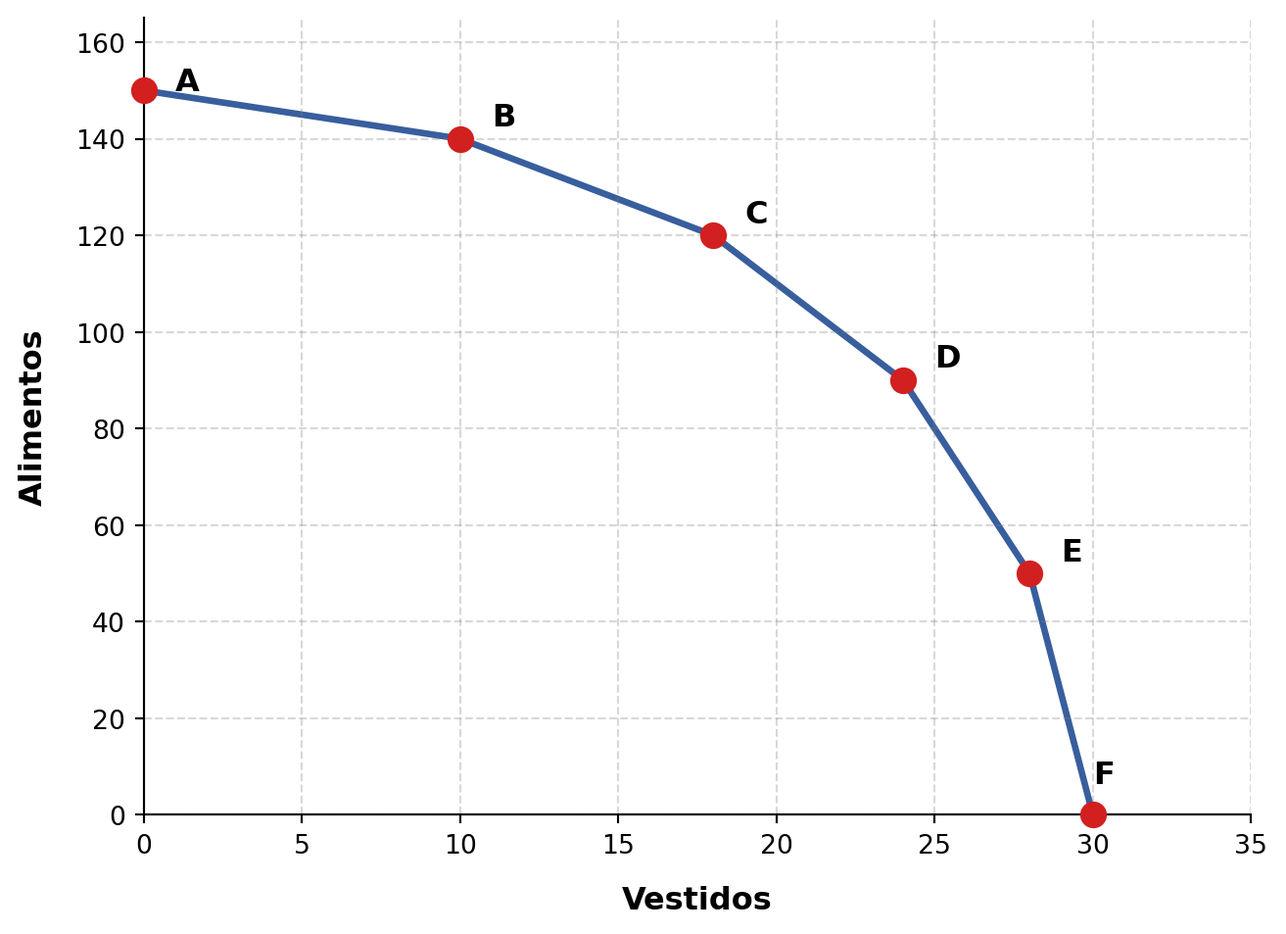
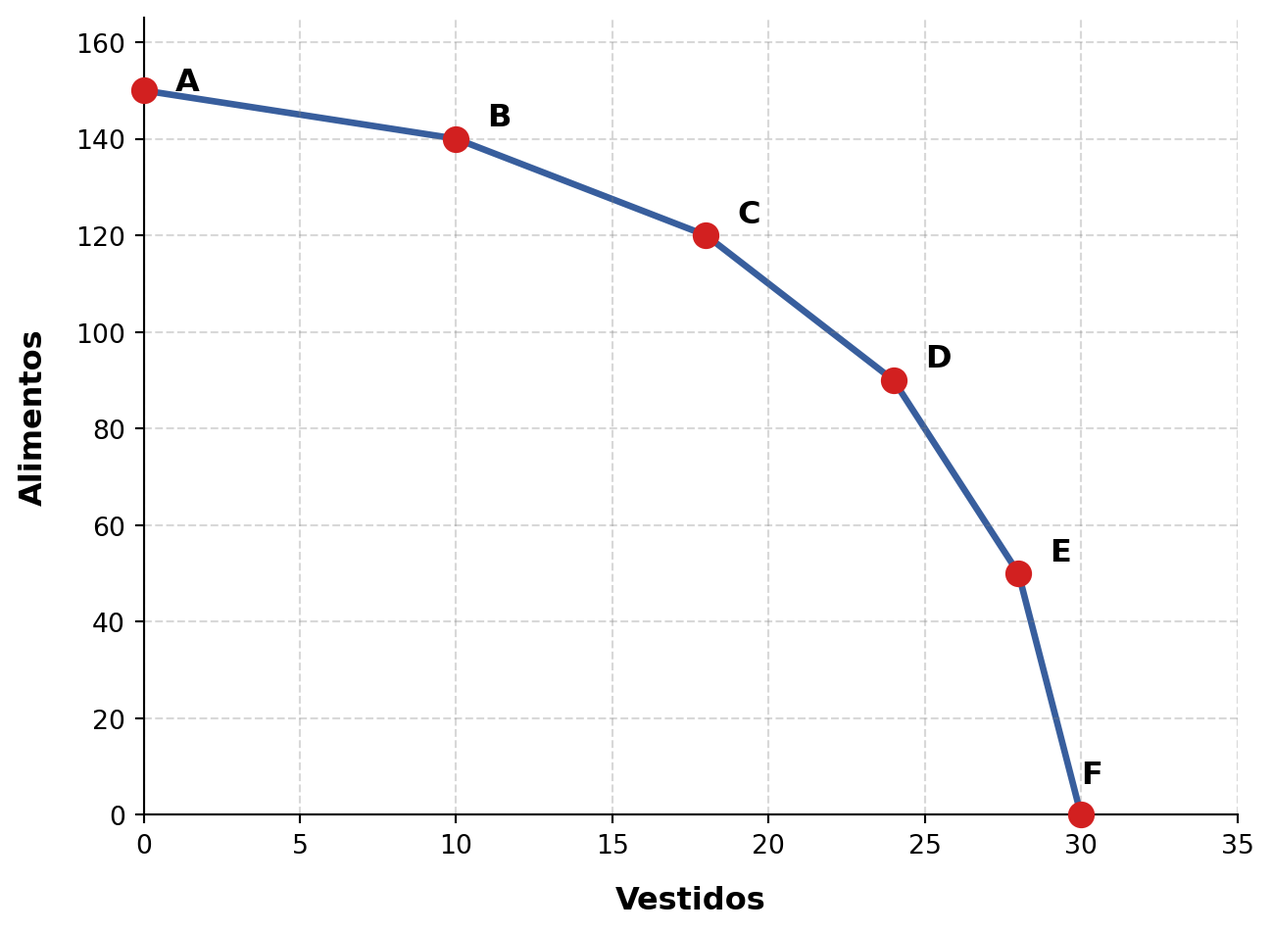
Built site for gh-pages

diff --git a/intro.html b/intro.html
@@ -567,7 +567,7 @@ Tabla&nbsp;1.3: Posibilidades de producción de alimentos y vestidos
 <div id="fig-fpp-grafico" class="quarto-float quarto-figure quarto-figure-center anchored">
 <figure class="quarto-float quarto-float-fig figure">
 <div aria-describedby="fig-fpp-grafico-caption-0ceaefa1-69ba-4598-a22c-09a6ac19f8ca">
-<img src="intro_files/figure-html/fig-fpp-grafico-output-1.png" width="657" height="477" class="figure-img">
+<img src="intro_files/figure-html/fig-fpp-grafico-output-1.png" width="649" height="477" class="figure-img">
 </div>
 <figcaption class="quarto-float-caption-bottom quarto-float-caption quarto-float-fig" id="fig-fpp-grafico-caption-0ceaefa1-69ba-4598-a22c-09a6ac19f8ca">
 Figura&nbsp;1.1: Representación gráfica de la Frontera de Posibilidades de Producción (FPP)
@@ -651,9 +651,9 @@ Figura&nbsp;1.1: Representación gráfica de la Frontera de Posibilidades de Pro
 <div id="fig-fpp-dinamica" class="cell-output cell-output-display quarto-float quarto-figure quarto-figure-center anchored">
 <figure class="quarto-float quarto-float-fig figure">
 <div aria-describedby="fig-fpp-dinamica-caption-0ceaefa1-69ba-4598-a22c-09a6ac19f8ca">
-<div>                            <div id="cb0a7c3e-56eb-4d82-a3ae-cc48da9b9d39" class="plotly-graph-div" style="height:525px; width:100%;"></div>            <script type="text/javascript">                require(["plotly"], function(Plotly) {                    window.PLOTLYENV=window.PLOTLYENV || {};                                    if (document.getElementById("cb0a7c3e-56eb-4d82-a3ae-cc48da9b9d39")) {                    Plotly.newPlot(                        "cb0a7c3e-56eb-4d82-a3ae-cc48da9b9d39",                        [{"line":{"color":"#385e9d","shape":"spline","width":4},"mode":"lines+markers","name":"FPP Actual","x":[0,10,18,24,28,30],"y":[150,140,120,90,50,0],"type":"scatter"},{"line":{"color":"gray","dash":"dash","shape":"spline","width":2},"mode":"lines","name":"FPP Anterior","visible":false,"x":[0,10,18,24,28,30],"y":[150,140,120,90,50,0],"type":"scatter"},{"line":{"color":"#2ca02c","shape":"spline","width":4},"mode":"lines+markers","name":"Nueva FPP","visible":false,"x":[0.0,12.5,22.5,30.0,35.0,37.5],"y":[187.5,175.0,150.0,112.5,62.5,0.0],"type":"scatter"},{"line":{"color":"#d22020","shape":"spline","width":4},"mode":"lines+markers","name":"Nueva FPP","visible":false,"x":[0.0,7.5,13.5,18.0,21.0,22.5],"y":[112.5,105.0,90.0,67.5,37.5,0.0],"type":"scatter"},{"line":{"color":"#ff7f0e","shape":"spline","width":4},"mode":"lines+markers","name":"Nueva FPP","visible":false,"x":[0,15.0,27.0,36.0,42.0,45.0],"y":[150,140,120,90,50,0],"type":"scatter"},{"line":{"color":"#9467bd","shape":"spline","width":4},"mode":"lines+markers","name":"Nueva FPP","visible":false,"x":[0.0,11.5,20.7,27.599999999999998,32.199999999999996,34.5],"y":[172.5,161.0,138.0,103.49999999999999,57.49999999999999,0.0],"type":"scatter"},{"marker":{"color":"#d22020","size":14},"mode":"markers+text","name":"Ineficiente","text":["Recursos<br>Ociosos"],"textposition":"bottom center","visible":false,"x":[10],"y":[50],"type":"scatter"},{"marker":{"color":"#2ca02c","size":14},"mode":"markers+text","name":"Eficiente","text":["Uso<br>Eficiente"],"textposition":"top right","visible":false,"x":[24],"y":[90],"type":"scatter"}],                        {"template":{"data":{"barpolar":[{"marker":{"line":{"color":"white","width":0.5},"pattern":{"fillmode":"overlay","size":10,"solidity":0.2}},"type":"barpolar"}],"bar":[{"error_x":{"color":"#2a3f5f"},"error_y":{"color":"#2a3f5f"},"marker":{"line":{"color":"white","width":0.5},"pattern":{"fillmode":"overlay","size":10,"solidity":0.2}},"type":"bar"}],"carpet":[{"aaxis":{"endlinecolor":"#2a3f5f","gridcolor":"#C8D4E3","linecolor":"#C8D4E3","minorgridcolor":"#C8D4E3","startlinecolor":"#2a3f5f"},"baxis":{"endlinecolor":"#2a3f5f","gridcolor":"#C8D4E3","linecolor":"#C8D4E3","minorgridcolor":"#C8D4E3","startlinecolor":"#2a3f5f"},"type":"carpet"}],"choropleth":[{"colorbar":{"outlinewidth":0,"ticks":""},"type":"choropleth"}],"contourcarpet":[{"colorbar":{"outlinewidth":0,"ticks":""},"type":"contourcarpet"}],"contour":[{"colorbar":{"outlinewidth":0,"ticks":""},"colorscale":[[0.0,"#0d0887"],[0.1111111111111111,"#46039f"],[0.2222222222222222,"#7201a8"],[0.3333333333333333,"#9c179e"],[0.4444444444444444,"#bd3786"],[0.5555555555555556,"#d8576b"],[0.6666666666666666,"#ed7953"],[0.7777777777777778,"#fb9f3a"],[0.8888888888888888,"#fdca26"],[1.0,"#f0f921"]],"type":"contour"}],"heatmapgl":[{"colorbar":{"outlinewidth":0,"ticks":""},"colorscale":[[0.0,"#0d0887"],[0.1111111111111111,"#46039f"],[0.2222222222222222,"#7201a8"],[0.3333333333333333,"#9c179e"],[0.4444444444444444,"#bd3786"],[0.5555555555555556,"#d8576b"],[0.6666666666666666,"#ed7953"],[0.7777777777777778,"#fb9f3a"],[0.8888888888888888,"#fdca26"],[1.0,"#f0f921"]],"type":"heatmapgl"}],"heatmap":[{"colorbar":{"outlinewidth":0,"ticks":""},"colorscale":[[0.0,"#0d0887"],[0.1111111111111111,"#46039f"],[0.2222222222222222,"#7201a8"],[0.3333333333333333,"#9c179e"],[0.4444444444444444,"#bd3786"],[0.5555555555555556,"#d8576b"],[0.6666666666666666,"#ed7953"],[0.7777777777777778,"#fb9f3a"],[0.8888888888888888,"#fdca26"],[1.0,"#f0f921"]],"type":"heatmap"}],"histogram2dcontour":[{"colorbar":{"outlinewidth":0,"ticks":""},"colorscale":[[0.0,"#0d0887"],[0.1111111111111111,"#46039f"],[0.2222222222222222,"#7201a8"],[0.3333333333333333,"#9c179e"],[0.4444444444444444,"#bd3786"],[0.5555555555555556,"#d8576b"],[0.6666666666666666,"#ed7953"],[0.7777777777777778,"#fb9f3a"],[0.8888888888888888,"#fdca26"],[1.0,"#f0f921"]],"type":"histogram2dcontour"}],"histogram2d":[{"colorbar":{"outlinewidth":0,"ticks":""},"colorscale":[[0.0,"#0d0887"],[0.1111111111111111,"#46039f"],[0.2222222222222222,"#7201a8"],[0.3333333333333333,"#9c179e"],[0.4444444444444444,"#bd3786"],[0.5555555555555556,"#d8576b"],[0.6666666666666666,"#ed7953"],[0.7777777777777778,"#fb9f3a"],[0.8888888888888888,"#fdca26"],[1.0,"#f0f921"]],"type":"histogram2d"}],"histogram":[{"marker":{"pattern":{"fillmode":"overlay","size":10,"solidity":0.2}},"type":"histogram"}],"mesh3d":[{"colorbar":{"outlinewidth":0,"ticks":""},"type":"mesh3d"}],"parcoords":[{"line":{"colorbar":{"outlinewidth":0,"ticks":""}},"type":"parcoords"}],"pie":[{"automargin":true,"type":"pie"}],"scatter3d":[{"line":{"colorbar":{"outlinewidth":0,"ticks":""}},"marker":{"colorbar":{"outlinewidth":0,"ticks":""}},"type":"scatter3d"}],"scattercarpet":[{"marker":{"colorbar":{"outlinewidth":0,"ticks":""}},"type":"scattercarpet"}],"scattergeo":[{"marker":{"colorbar":{"outlinewidth":0,"ticks":""}},"type":"scattergeo"}],"scattergl":[{"marker":{"colorbar":{"outlinewidth":0,"ticks":""}},"type":"scattergl"}],"scattermapbox":[{"marker":{"colorbar":{"outlinewidth":0,"ticks":""}},"type":"scattermapbox"}],"scatterpolargl":[{"marker":{"colorbar":{"outlinewidth":0,"ticks":""}},"type":"scatterpolargl"}],"scatterpolar":[{"marker":{"colorbar":{"outlinewidth":0,"ticks":""}},"type":"scatterpolar"}],"scatter":[{"fillpattern":{"fillmode":"overlay","size":10,"solidity":0.2},"type":"scatter"}],"scatterternary":[{"marker":{"colorbar":{"outlinewidth":0,"ticks":""}},"type":"scatterternary"}],"surface":[{"colorbar":{"outlinewidth":0,"ticks":""},"colorscale":[[0.0,"#0d0887"],[0.1111111111111111,"#46039f"],[0.2222222222222222,"#7201a8"],[0.3333333333333333,"#9c179e"],[0.4444444444444444,"#bd3786"],[0.5555555555555556,"#d8576b"],[0.6666666666666666,"#ed7953"],[0.7777777777777778,"#fb9f3a"],[0.8888888888888888,"#fdca26"],[1.0,"#f0f921"]],"type":"surface"}],"table":[{"cells":{"fill":{"color":"#EBF0F8"},"line":{"color":"white"}},"header":{"fill":{"color":"#C8D4E3"},"line":{"color":"white"}},"type":"table"}]},"layout":{"annotationdefaults":{"arrowcolor":"#2a3f5f","arrowhead":0,"arrowwidth":1},"autotypenumbers":"strict","coloraxis":{"colorbar":{"outlinewidth":0,"ticks":""}},"colorscale":{"diverging":[[0,"#8e0152"],[0.1,"#c51b7d"],[0.2,"#de77ae"],[0.3,"#f1b6da"],[0.4,"#fde0ef"],[0.5,"#f7f7f7"],[0.6,"#e6f5d0"],[0.7,"#b8e186"],[0.8,"#7fbc41"],[0.9,"#4d9221"],[1,"#276419"]],"sequential":[[0.0,"#0d0887"],[0.1111111111111111,"#46039f"],[0.2222222222222222,"#7201a8"],[0.3333333333333333,"#9c179e"],[0.4444444444444444,"#bd3786"],[0.5555555555555556,"#d8576b"],[0.6666666666666666,"#ed7953"],[0.7777777777777778,"#fb9f3a"],[0.8888888888888888,"#fdca26"],[1.0,"#f0f921"]],"sequentialminus":[[0.0,"#0d0887"],[0.1111111111111111,"#46039f"],[0.2222222222222222,"#7201a8"],[0.3333333333333333,"#9c179e"],[0.4444444444444444,"#bd3786"],[0.5555555555555556,"#d8576b"],[0.6666666666666666,"#ed7953"],[0.7777777777777778,"#fb9f3a"],[0.8888888888888888,"#fdca26"],[1.0,"#f0f921"]]},"colorway":["#636efa","#EF553B","#00cc96","#ab63fa","#FFA15A","#19d3f3","#FF6692","#B6E880","#FF97FF","#FECB52"],"font":{"color":"#2a3f5f"},"geo":{"bgcolor":"white","lakecolor":"white","landcolor":"white","showlakes":true,"showland":true,"subunitcolor":"#C8D4E3"},"hoverlabel":{"align":"left"},"hovermode":"closest","mapbox":{"style":"light"},"margin":{"b":0,"l":0,"r":0,"t":30},"paper_bgcolor":"white","plot_bgcolor":"white","polar":{"angularaxis":{"gridcolor":"#EBF0F8","linecolor":"#EBF0F8","ticks":""},"bgcolor":"white","radialaxis":{"gridcolor":"#EBF0F8","linecolor":"#EBF0F8","ticks":""}},"scene":{"xaxis":{"backgroundcolor":"white","gridcolor":"#DFE8F3","gridwidth":2,"linecolor":"#EBF0F8","showbackground":true,"ticks":"","zerolinecolor":"#EBF0F8"},"yaxis":{"backgroundcolor":"white","gridcolor":"#DFE8F3","gridwidth":2,"linecolor":"#EBF0F8","showbackground":true,"ticks":"","zerolinecolor":"#EBF0F8"},"zaxis":{"backgroundcolor":"white","gridcolor":"#DFE8F3","gridwidth":2,"linecolor":"#EBF0F8","showbackground":true,"ticks":"","zerolinecolor":"#EBF0F8"}},"shapedefaults":{"line":{"color":"#2a3f5f"}},"ternary":{"aaxis":{"gridcolor":"#DFE8F3","linecolor":"#A2B1C6","ticks":""},"baxis":{"gridcolor":"#DFE8F3","linecolor":"#A2B1C6","ticks":""},"bgcolor":"white","caxis":{"gridcolor":"#DFE8F3","linecolor":"#A2B1C6","ticks":""}},"title":{"x":0.05},"xaxis":{"automargin":true,"gridcolor":"#EBF0F8","linecolor":"#EBF0F8","ticks":"","title":{"standoff":15},"zerolinecolor":"#EBF0F8","zerolinewidth":2},"yaxis":{"automargin":true,"gridcolor":"#EBF0F8","linecolor":"#EBF0F8","ticks":"","title":{"standoff":15},"zerolinecolor":"#EBF0F8","zerolinewidth":2}}},"xaxis":{"title":{"text":"<b>Vestidos</b>"},"range":[0,50],"zeroline":true,"zerolinecolor":"black","zerolinewidth":1.5,"gridcolor":"lightgray"},"yaxis":{"title":{"text":"<b>Alimentos</b>"},"range":[0,200],"zeroline":true,"zerolinecolor":"black","zerolinewidth":1.5,"gridcolor":"lightgray"},"margin":{"l":50,"r":30,"t":40,"b":50},"legend":{"x":0.98,"xanchor":"right","y":0.85,"yanchor":"top","bgcolor":"rgba(255, 255, 255, 0.9)","bordercolor":"lightgray","borderwidth":1},"updatemenus":[{"active":0,"bgcolor":"rgba(255, 255, 255, 0.9)","bordercolor":"lightgray","borderwidth":1,"buttons":[{"args":[{"visible":[true,false,false,false,false,false,false,false]},{"annotations":[{"x":0.03,"y":0.97,"xref":"paper","yref":"paper","text":"<b>Situaci\u00f3n Inicial</b><br><br>La FPP representa el potencial productivo m\u00e1ximo.<br>La econom\u00eda es eficiente sobre la curva.","showarrow":false,"align":"left","font":{"size":13},"bgcolor":"rgba(255, 255, 255, 0.95)","bordercolor":"#385e9d","borderwidth":2,"borderpad":10}]}],"label":"0. Situaci\u00f3n Inicial","method":"update"},{"args":[{"visible":[false,true,true,false,false,false,false,false]},{"annotations":[{"x":0.03,"y":0.97,"xref":"paper","yref":"paper","text":"<b>Aumento de Recursos</b><br><br><b>Desplazamiento:</b> Hacia el exterior (derecha).<br><b>Efecto:</b> Crece la capacidad de producci\u00f3n<br>de ambos bienes en simult\u00e1neo.","showarrow":false,"align":"left","font":{"size":13},"bgcolor":"rgba(255, 255, 255, 0.95)","bordercolor":"#385e9d","borderwidth":2,"borderpad":10}]}],"label":"1. Aumento de recursos","method":"update"},{"args":[{"visible":[false,true,false,true,false,false,false,false]},{"annotations":[{"x":0.03,"y":0.97,"xref":"paper","yref":"paper","text":"<b>Disminuci\u00f3n de Recursos</b><br><br><b>Desplazamiento:</b> Hacia el origen (izquierda).<br><b>Efecto:</b> Se reduce el potencial productivo<br>global de la econom\u00eda.","showarrow":false,"align":"left","font":{"size":13},"bgcolor":"rgba(255, 255, 255, 0.95)","bordercolor":"#385e9d","borderwidth":2,"borderpad":10}]}],"label":"2. Disminuci\u00f3n de recursos","method":"update"},{"args":[{"visible":[false,true,false,false,true,false,false,false]},{"annotations":[{"x":0.03,"y":0.97,"xref":"paper","yref":"paper","text":"<b>Mejora Tecnol\u00f3gica en un bien</b><br><br><b>Desplazamiento:</b> Hacia el exterior por el lado del bien.<br><b>Efecto:</b> La frontera se estira \u00fanicamente sobre el eje<br>de los Vestidos (eje X).","showarrow":false,"align":"left","font":{"size":13},"bgcolor":"rgba(255, 255, 255, 0.95)","bordercolor":"#385e9d","borderwidth":2,"borderpad":10}]}],"label":"3. Mejora tec. (Solo Vestidos)","method":"update"},{"args":[{"visible":[false,true,false,false,false,true,false,false]},{"annotations":[{"x":0.03,"y":0.97,"xref":"paper","yref":"paper","text":"<b>Mejora Tecnol\u00f3gica en todos los bienes</b><br><br><b>Desplazamiento:</b> Hacia el exterior (derecha).<br><b>Efecto:</b> Representa un crecimiento econ\u00f3mico generalizado<br>por innovaci\u00f3n tecnol\u00f3gica.","showarrow":false,"align":"left","font":{"size":13},"bgcolor":"rgba(255, 255, 255, 0.95)","bordercolor":"#385e9d","borderwidth":2,"borderpad":10}]}],"label":"4. Mejora tec. General","method":"update"},{"args":[{"visible":[true,false,false,false,false,false,true,true]},{"annotations":[{"x":0.03,"y":0.97,"xref":"paper","yref":"paper","text":"<b>Sociedad utiliza recursos ociosos</b><br><br><b>Desplazamiento:</b> No hay desplazamiento de la FPP.<br><b>Efecto:</b> La econom\u00eda se mueve desde una combinaci\u00f3n<br>ineficiente (interior) hacia la frontera.","showarrow":false,"align":"left","font":{"size":13},"bgcolor":"rgba(255, 255, 255, 0.95)","bordercolor":"#385e9d","borderwidth":2,"borderpad":10},{"x":23,"y":85,"ax":12,"ay":55,"xref":"x","yref":"y","axref":"x","ayref":"y","text":"La econom\u00eda se optimiza","showarrow":true,"arrowhead":2,"arrowsize":1.5,"arrowwidth":2,"arrowcolor":"#385e9d"}]}],"label":"5. Uso de recursos ociosos","method":"update"}],"x":0.98,"xanchor":"right","y":0.98,"yanchor":"top"}],"hovermode":"x unified"},                        {"responsive": true}                    ).then(function(){
+<div>                            <div id="4c9b516c-8501-43c4-a654-6edfe512dbdc" class="plotly-graph-div" style="height:525px; width:100%;"></div>            <script type="text/javascript">                require(["plotly"], function(Plotly) {                    window.PLOTLYENV=window.PLOTLYENV || {};                                    if (document.getElementById("4c9b516c-8501-43c4-a654-6edfe512dbdc")) {                    Plotly.newPlot(                        "4c9b516c-8501-43c4-a654-6edfe512dbdc",                        [{"line":{"color":"#385e9d","shape":"spline","width":4},"mode":"lines+markers","name":"FPP Actual","x":[0,10,18,24,28,30],"y":[150,140,120,90,50,0],"type":"scatter"},{"line":{"color":"gray","dash":"dash","shape":"spline","width":2},"mode":"lines","name":"FPP Anterior","visible":false,"x":[0,10,18,24,28,30],"y":[150,140,120,90,50,0],"type":"scatter"},{"line":{"color":"#2ca02c","shape":"spline","width":4},"mode":"lines+markers","name":"Nueva FPP","visible":false,"x":[0.0,12.5,22.5,30.0,35.0,37.5],"y":[187.5,175.0,150.0,112.5,62.5,0.0],"type":"scatter"},{"line":{"color":"#d22020","shape":"spline","width":4},"mode":"lines+markers","name":"Nueva FPP","visible":false,"x":[0.0,7.5,13.5,18.0,21.0,22.5],"y":[112.5,105.0,90.0,67.5,37.5,0.0],"type":"scatter"},{"line":{"color":"#ff7f0e","shape":"spline","width":4},"mode":"lines+markers","name":"Nueva FPP","visible":false,"x":[0,15.0,27.0,36.0,42.0,45.0],"y":[150,140,120,90,50,0],"type":"scatter"},{"line":{"color":"#9467bd","shape":"spline","width":4},"mode":"lines+markers","name":"Nueva FPP","visible":false,"x":[0.0,11.5,20.7,27.599999999999998,32.199999999999996,34.5],"y":[172.5,161.0,138.0,103.49999999999999,57.49999999999999,0.0],"type":"scatter"},{"marker":{"color":"#d22020","size":14},"mode":"markers+text","name":"Ineficiente","text":["Recursos<br>Ociosos"],"textposition":"bottom center","visible":false,"x":[10],"y":[50],"type":"scatter"},{"marker":{"color":"#2ca02c","size":14},"mode":"markers+text","name":"Eficiente","text":["Uso<br>Eficiente"],"textposition":"top right","visible":false,"x":[24],"y":[90],"type":"scatter"}],                        {"template":{"data":{"barpolar":[{"marker":{"line":{"color":"white","width":0.5},"pattern":{"fillmode":"overlay","size":10,"solidity":0.2}},"type":"barpolar"}],"bar":[{"error_x":{"color":"#2a3f5f"},"error_y":{"color":"#2a3f5f"},"marker":{"line":{"color":"white","width":0.5},"pattern":{"fillmode":"overlay","size":10,"solidity":0.2}},"type":"bar"}],"carpet":[{"aaxis":{"endlinecolor":"#2a3f5f","gridcolor":"#C8D4E3","linecolor":"#C8D4E3","minorgridcolor":"#C8D4E3","startlinecolor":"#2a3f5f"},"baxis":{"endlinecolor":"#2a3f5f","gridcolor":"#C8D4E3","linecolor":"#C8D4E3","minorgridcolor":"#C8D4E3","startlinecolor":"#2a3f5f"},"type":"carpet"}],"choropleth":[{"colorbar":{"outlinewidth":0,"ticks":""},"type":"choropleth"}],"contourcarpet":[{"colorbar":{"outlinewidth":0,"ticks":""},"type":"contourcarpet"}],"contour":[{"colorbar":{"outlinewidth":0,"ticks":""},"colorscale":[[0.0,"#0d0887"],[0.1111111111111111,"#46039f"],[0.2222222222222222,"#7201a8"],[0.3333333333333333,"#9c179e"],[0.4444444444444444,"#bd3786"],[0.5555555555555556,"#d8576b"],[0.6666666666666666,"#ed7953"],[0.7777777777777778,"#fb9f3a"],[0.8888888888888888,"#fdca26"],[1.0,"#f0f921"]],"type":"contour"}],"heatmapgl":[{"colorbar":{"outlinewidth":0,"ticks":""},"colorscale":[[0.0,"#0d0887"],[0.1111111111111111,"#46039f"],[0.2222222222222222,"#7201a8"],[0.3333333333333333,"#9c179e"],[0.4444444444444444,"#bd3786"],[0.5555555555555556,"#d8576b"],[0.6666666666666666,"#ed7953"],[0.7777777777777778,"#fb9f3a"],[0.8888888888888888,"#fdca26"],[1.0,"#f0f921"]],"type":"heatmapgl"}],"heatmap":[{"colorbar":{"outlinewidth":0,"ticks":""},"colorscale":[[0.0,"#0d0887"],[0.1111111111111111,"#46039f"],[0.2222222222222222,"#7201a8"],[0.3333333333333333,"#9c179e"],[0.4444444444444444,"#bd3786"],[0.5555555555555556,"#d8576b"],[0.6666666666666666,"#ed7953"],[0.7777777777777778,"#fb9f3a"],[0.8888888888888888,"#fdca26"],[1.0,"#f0f921"]],"type":"heatmap"}],"histogram2dcontour":[{"colorbar":{"outlinewidth":0,"ticks":""},"colorscale":[[0.0,"#0d0887"],[0.1111111111111111,"#46039f"],[0.2222222222222222,"#7201a8"],[0.3333333333333333,"#9c179e"],[0.4444444444444444,"#bd3786"],[0.5555555555555556,"#d8576b"],[0.6666666666666666,"#ed7953"],[0.7777777777777778,"#fb9f3a"],[0.8888888888888888,"#fdca26"],[1.0,"#f0f921"]],"type":"histogram2dcontour"}],"histogram2d":[{"colorbar":{"outlinewidth":0,"ticks":""},"colorscale":[[0.0,"#0d0887"],[0.1111111111111111,"#46039f"],[0.2222222222222222,"#7201a8"],[0.3333333333333333,"#9c179e"],[0.4444444444444444,"#bd3786"],[0.5555555555555556,"#d8576b"],[0.6666666666666666,"#ed7953"],[0.7777777777777778,"#fb9f3a"],[0.8888888888888888,"#fdca26"],[1.0,"#f0f921"]],"type":"histogram2d"}],"histogram":[{"marker":{"pattern":{"fillmode":"overlay","size":10,"solidity":0.2}},"type":"histogram"}],"mesh3d":[{"colorbar":{"outlinewidth":0,"ticks":""},"type":"mesh3d"}],"parcoords":[{"line":{"colorbar":{"outlinewidth":0,"ticks":""}},"type":"parcoords"}],"pie":[{"automargin":true,"type":"pie"}],"scatter3d":[{"line":{"colorbar":{"outlinewidth":0,"ticks":""}},"marker":{"colorbar":{"outlinewidth":0,"ticks":""}},"type":"scatter3d"}],"scattercarpet":[{"marker":{"colorbar":{"outlinewidth":0,"ticks":""}},"type":"scattercarpet"}],"scattergeo":[{"marker":{"colorbar":{"outlinewidth":0,"ticks":""}},"type":"scattergeo"}],"scattergl":[{"marker":{"colorbar":{"outlinewidth":0,"ticks":""}},"type":"scattergl"}],"scattermapbox":[{"marker":{"colorbar":{"outlinewidth":0,"ticks":""}},"type":"scattermapbox"}],"scatterpolargl":[{"marker":{"colorbar":{"outlinewidth":0,"ticks":""}},"type":"scatterpolargl"}],"scatterpolar":[{"marker":{"colorbar":{"outlinewidth":0,"ticks":""}},"type":"scatterpolar"}],"scatter":[{"fillpattern":{"fillmode":"overlay","size":10,"solidity":0.2},"type":"scatter"}],"scatterternary":[{"marker":{"colorbar":{"outlinewidth":0,"ticks":""}},"type":"scatterternary"}],"surface":[{"colorbar":{"outlinewidth":0,"ticks":""},"colorscale":[[0.0,"#0d0887"],[0.1111111111111111,"#46039f"],[0.2222222222222222,"#7201a8"],[0.3333333333333333,"#9c179e"],[0.4444444444444444,"#bd3786"],[0.5555555555555556,"#d8576b"],[0.6666666666666666,"#ed7953"],[0.7777777777777778,"#fb9f3a"],[0.8888888888888888,"#fdca26"],[1.0,"#f0f921"]],"type":"surface"}],"table":[{"cells":{"fill":{"color":"#EBF0F8"},"line":{"color":"white"}},"header":{"fill":{"color":"#C8D4E3"},"line":{"color":"white"}},"type":"table"}]},"layout":{"annotationdefaults":{"arrowcolor":"#2a3f5f","arrowhead":0,"arrowwidth":1},"autotypenumbers":"strict","coloraxis":{"colorbar":{"outlinewidth":0,"ticks":""}},"colorscale":{"diverging":[[0,"#8e0152"],[0.1,"#c51b7d"],[0.2,"#de77ae"],[0.3,"#f1b6da"],[0.4,"#fde0ef"],[0.5,"#f7f7f7"],[0.6,"#e6f5d0"],[0.7,"#b8e186"],[0.8,"#7fbc41"],[0.9,"#4d9221"],[1,"#276419"]],"sequential":[[0.0,"#0d0887"],[0.1111111111111111,"#46039f"],[0.2222222222222222,"#7201a8"],[0.3333333333333333,"#9c179e"],[0.4444444444444444,"#bd3786"],[0.5555555555555556,"#d8576b"],[0.6666666666666666,"#ed7953"],[0.7777777777777778,"#fb9f3a"],[0.8888888888888888,"#fdca26"],[1.0,"#f0f921"]],"sequentialminus":[[0.0,"#0d0887"],[0.1111111111111111,"#46039f"],[0.2222222222222222,"#7201a8"],[0.3333333333333333,"#9c179e"],[0.4444444444444444,"#bd3786"],[0.5555555555555556,"#d8576b"],[0.6666666666666666,"#ed7953"],[0.7777777777777778,"#fb9f3a"],[0.8888888888888888,"#fdca26"],[1.0,"#f0f921"]]},"colorway":["#636efa","#EF553B","#00cc96","#ab63fa","#FFA15A","#19d3f3","#FF6692","#B6E880","#FF97FF","#FECB52"],"font":{"color":"#2a3f5f"},"geo":{"bgcolor":"white","lakecolor":"white","landcolor":"white","showlakes":true,"showland":true,"subunitcolor":"#C8D4E3"},"hoverlabel":{"align":"left"},"hovermode":"closest","mapbox":{"style":"light"},"margin":{"b":0,"l":0,"r":0,"t":30},"paper_bgcolor":"white","plot_bgcolor":"white","polar":{"angularaxis":{"gridcolor":"#EBF0F8","linecolor":"#EBF0F8","ticks":""},"bgcolor":"white","radialaxis":{"gridcolor":"#EBF0F8","linecolor":"#EBF0F8","ticks":""}},"scene":{"xaxis":{"backgroundcolor":"white","gridcolor":"#DFE8F3","gridwidth":2,"linecolor":"#EBF0F8","showbackground":true,"ticks":"","zerolinecolor":"#EBF0F8"},"yaxis":{"backgroundcolor":"white","gridcolor":"#DFE8F3","gridwidth":2,"linecolor":"#EBF0F8","showbackground":true,"ticks":"","zerolinecolor":"#EBF0F8"},"zaxis":{"backgroundcolor":"white","gridcolor":"#DFE8F3","gridwidth":2,"linecolor":"#EBF0F8","showbackground":true,"ticks":"","zerolinecolor":"#EBF0F8"}},"shapedefaults":{"line":{"color":"#2a3f5f"}},"ternary":{"aaxis":{"gridcolor":"#DFE8F3","linecolor":"#A2B1C6","ticks":""},"baxis":{"gridcolor":"#DFE8F3","linecolor":"#A2B1C6","ticks":""},"bgcolor":"white","caxis":{"gridcolor":"#DFE8F3","linecolor":"#A2B1C6","ticks":""}},"title":{"x":0.05},"xaxis":{"automargin":true,"gridcolor":"#EBF0F8","linecolor":"#EBF0F8","ticks":"","title":{"standoff":15},"zerolinecolor":"#EBF0F8","zerolinewidth":2},"yaxis":{"automargin":true,"gridcolor":"#EBF0F8","linecolor":"#EBF0F8","ticks":"","title":{"standoff":15},"zerolinecolor":"#EBF0F8","zerolinewidth":2}}},"xaxis":{"title":{"text":"<b>Vestidos</b>"},"range":[0,50],"zeroline":true,"zerolinecolor":"black","zerolinewidth":1.5,"gridcolor":"lightgray"},"yaxis":{"title":{"text":"<b>Alimentos</b>"},"range":[0,200],"zeroline":true,"zerolinecolor":"black","zerolinewidth":1.5,"gridcolor":"lightgray"},"margin":{"l":50,"r":30,"t":40,"b":50},"legend":{"x":0.98,"xanchor":"right","y":0.85,"yanchor":"top","bgcolor":"rgba(255, 255, 255, 0.9)","bordercolor":"lightgray","borderwidth":1},"updatemenus":[{"active":0,"bgcolor":"rgba(255, 255, 255, 0.9)","bordercolor":"lightgray","borderwidth":1,"buttons":[{"args":[{"visible":[true,false,false,false,false,false,false,false]},{"annotations":[{"x":0.03,"y":0.97,"xref":"paper","yref":"paper","text":"<b>Situaci\u00f3n Inicial</b><br><br>La FPP representa el potencial productivo m\u00e1ximo.<br>La econom\u00eda es eficiente sobre la curva.","showarrow":false,"align":"left","font":{"size":13},"bgcolor":"rgba(255, 255, 255, 0.95)","bordercolor":"#385e9d","borderwidth":2,"borderpad":10}]}],"label":"0. Situaci\u00f3n Inicial","method":"update"},{"args":[{"visible":[false,true,true,false,false,false,false,false]},{"annotations":[{"x":0.03,"y":0.97,"xref":"paper","yref":"paper","text":"<b>Aumento de Recursos</b><br><br><b>Desplazamiento:</b> Hacia el exterior (derecha).<br><b>Efecto:</b> Crece la capacidad de producci\u00f3n<br>de ambos bienes en simult\u00e1neo.","showarrow":false,"align":"left","font":{"size":13},"bgcolor":"rgba(255, 255, 255, 0.95)","bordercolor":"#385e9d","borderwidth":2,"borderpad":10}]}],"label":"1. Aumento de recursos","method":"update"},{"args":[{"visible":[false,true,false,true,false,false,false,false]},{"annotations":[{"x":0.03,"y":0.97,"xref":"paper","yref":"paper","text":"<b>Disminuci\u00f3n de Recursos</b><br><br><b>Desplazamiento:</b> Hacia el origen (izquierda).<br><b>Efecto:</b> Se reduce el potencial productivo<br>global de la econom\u00eda.","showarrow":false,"align":"left","font":{"size":13},"bgcolor":"rgba(255, 255, 255, 0.95)","bordercolor":"#385e9d","borderwidth":2,"borderpad":10}]}],"label":"2. Disminuci\u00f3n de recursos","method":"update"},{"args":[{"visible":[false,true,false,false,true,false,false,false]},{"annotations":[{"x":0.03,"y":0.97,"xref":"paper","yref":"paper","text":"<b>Mejora Tecnol\u00f3gica en un bien</b><br><br><b>Desplazamiento:</b> Hacia el exterior por el lado del bien.<br><b>Efecto:</b> La frontera se estira \u00fanicamente sobre el eje<br>de los Vestidos (eje X).","showarrow":false,"align":"left","font":{"size":13},"bgcolor":"rgba(255, 255, 255, 0.95)","bordercolor":"#385e9d","borderwidth":2,"borderpad":10}]}],"label":"3. Mejora tec. (Solo Vestidos)","method":"update"},{"args":[{"visible":[false,true,false,false,false,true,false,false]},{"annotations":[{"x":0.03,"y":0.97,"xref":"paper","yref":"paper","text":"<b>Mejora Tecnol\u00f3gica en todos los bienes</b><br><br><b>Desplazamiento:</b> Hacia el exterior (derecha).<br><b>Efecto:</b> Representa un crecimiento econ\u00f3mico generalizado<br>por innovaci\u00f3n tecnol\u00f3gica.","showarrow":false,"align":"left","font":{"size":13},"bgcolor":"rgba(255, 255, 255, 0.95)","bordercolor":"#385e9d","borderwidth":2,"borderpad":10}]}],"label":"4. Mejora tec. General","method":"update"},{"args":[{"visible":[true,false,false,false,false,false,true,true]},{"annotations":[{"x":0.03,"y":0.97,"xref":"paper","yref":"paper","text":"<b>Sociedad utiliza recursos ociosos</b><br><br><b>Desplazamiento:</b> No hay desplazamiento de la FPP.<br><b>Efecto:</b> La econom\u00eda se mueve desde una combinaci\u00f3n<br>ineficiente (interior) hacia la frontera.","showarrow":false,"align":"left","font":{"size":13},"bgcolor":"rgba(255, 255, 255, 0.95)","bordercolor":"#385e9d","borderwidth":2,"borderpad":10},{"x":23,"y":85,"ax":12,"ay":55,"xref":"x","yref":"y","axref":"x","ayref":"y","text":"La econom\u00eda se optimiza","showarrow":true,"arrowhead":2,"arrowsize":1.5,"arrowwidth":2,"arrowcolor":"#385e9d"}]}],"label":"5. Uso de recursos ociosos","method":"update"}],"x":0.98,"xanchor":"right","y":0.98,"yanchor":"top"}],"hovermode":"x unified"},                        {"responsive": true}                    ).then(function(){
                             
-var gd = document.getElementById('cb0a7c3e-56eb-4d82-a3ae-cc48da9b9d39');
+var gd = document.getElementById('4c9b516c-8501-43c4-a654-6edfe512dbdc');
 var x = new MutationObserver(function (mutations, observer) {{
         var display = window.getComputedStyle(gd).display;
         if (!display || display === 'none') {{
